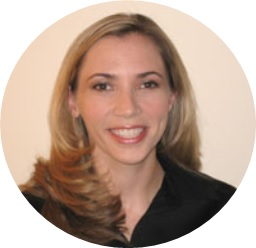
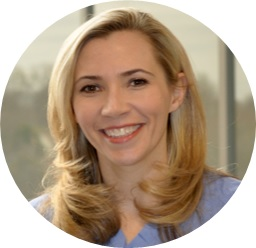
new clark image and delete yamine

diff --git a/src/dastaff.html b/src/dastaff.html
@@ -131,12 +131,6 @@
             <div class="image-caption">Vishnu Vanaharam, M.D.</div>
         </a>
     </div>
-    <div class="staff-block">
-    <a id="cyamine" class="header-text" data-toggle="modal" data-target=".cyamine">
-        <img class="doctor-image" src="./image/cyamine.jpg">
-        <div class="image-caption">Chahine J. Yamine, M.D.</div>
-    </a>
-</div>
 </div>
 
 <div id="footer" class="footer">
